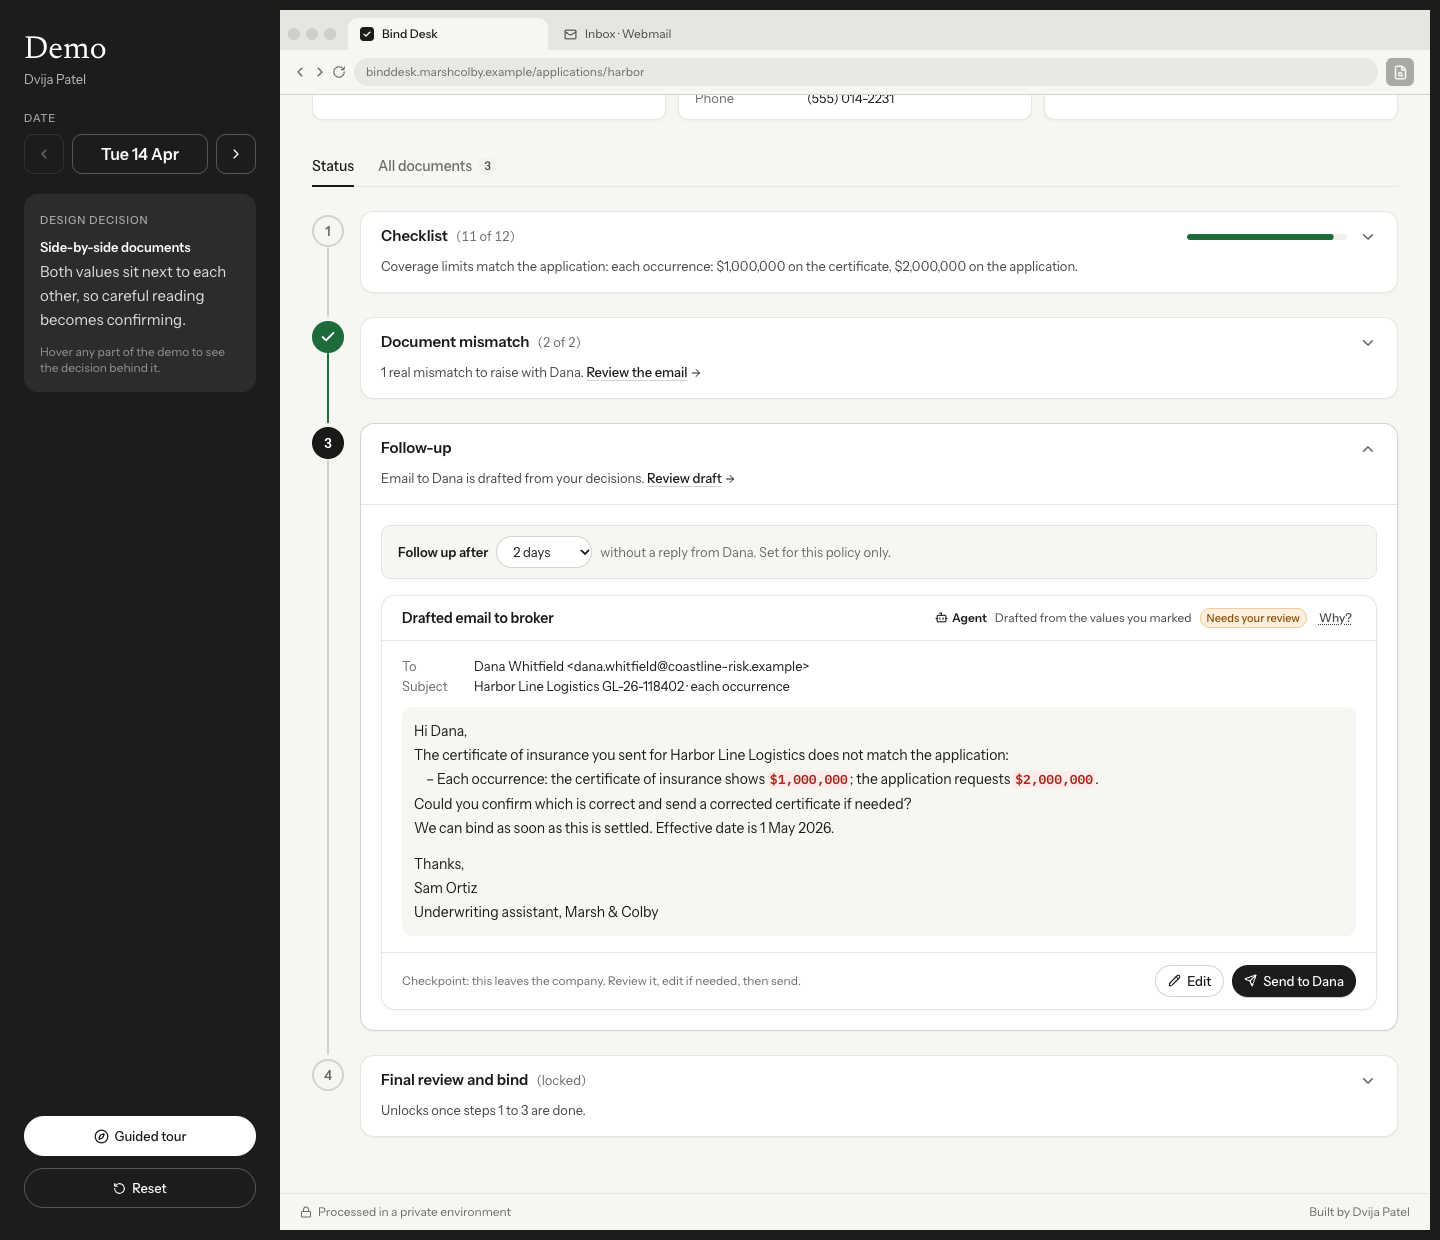
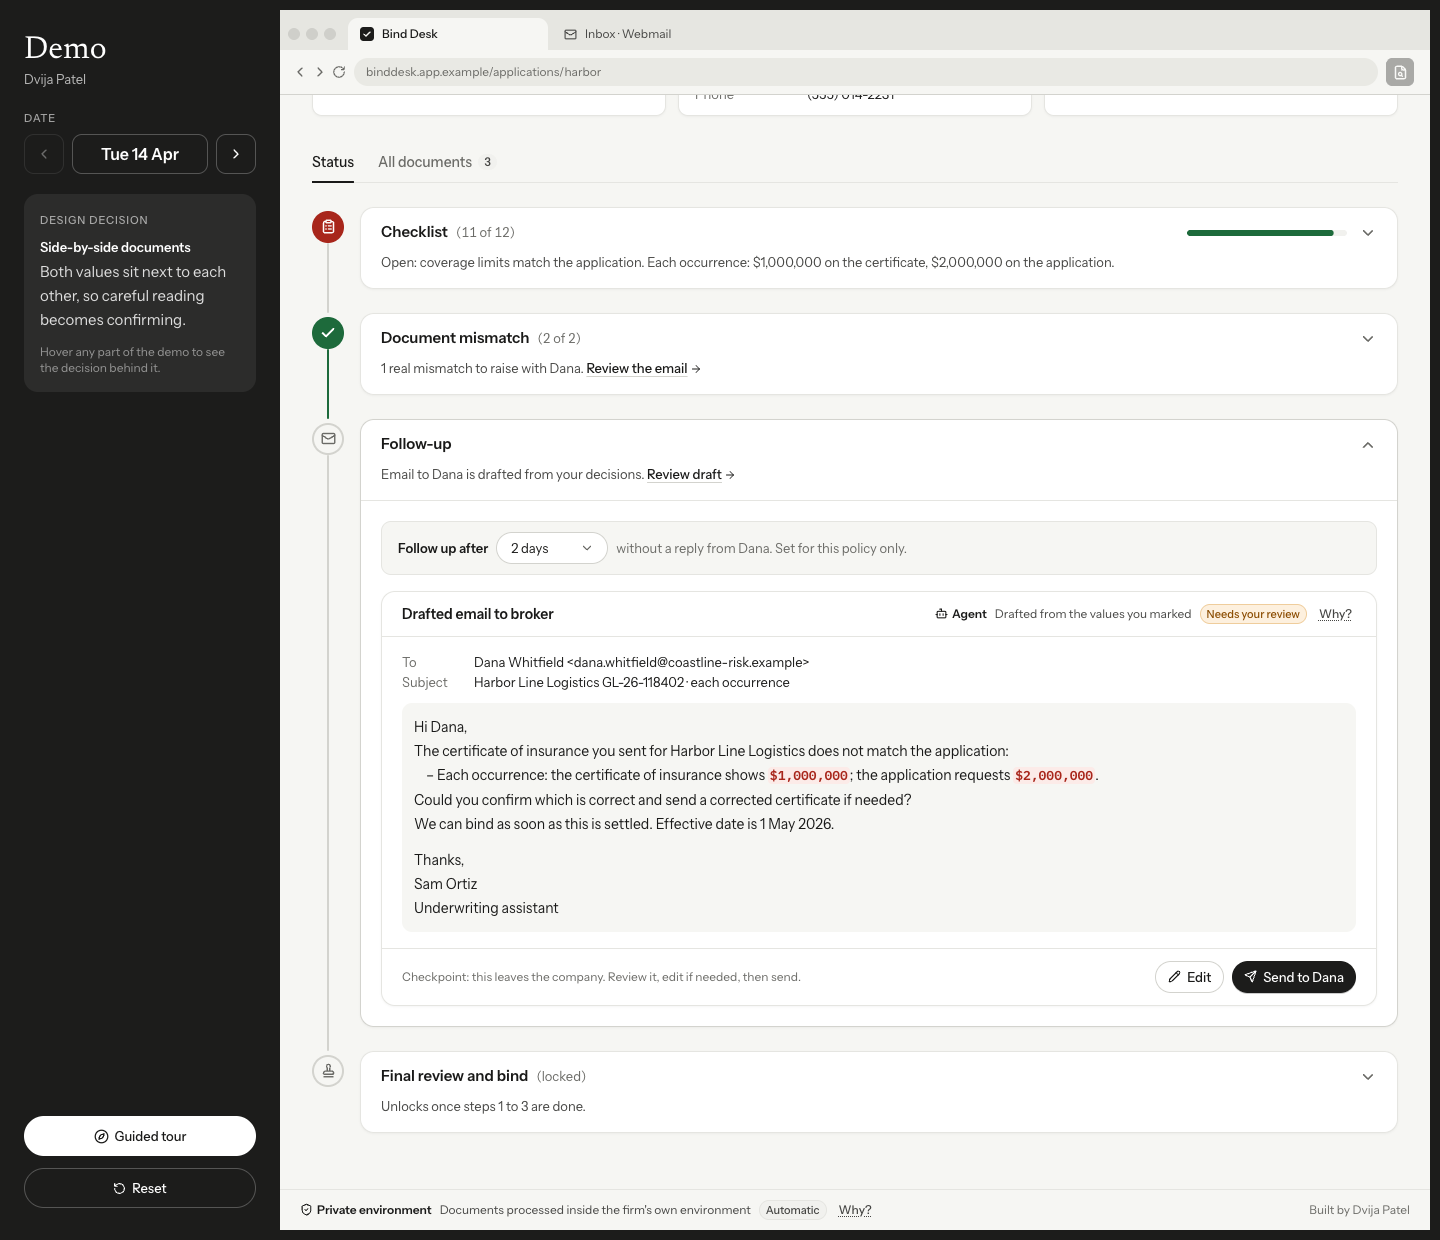
Sliding decision toggle with resolve and approve-correction flow, shared select, checklist title

diff --git a/src/proto/screens/AppDetail.tsx b/src/proto/screens/AppDetail.tsx
@@ -23,7 +23,7 @@ import { USER } from '../mockData'
 import { Flip, gsap, prefersReduced, useGSAP, useIndicator, withMotion } from '../motion'
 import { StatusBadge } from '../components/StatusBadge'
 import { AiTag } from '../components/AiTag'
-import { Button, Counter, ProtoFooter } from '../components/ui'
+import { Button, Counter, ProtoFooter, Select } from '../components/ui'
 import { DrawnCheck, EmailDraft } from '../components/EmailDraft'
 import { BindDialog } from '../components/BindDialog'
 import { InlineLink } from './Home'
@@ -514,7 +514,7 @@ function ChecklistSection({ sub }: { sub: Submission }) {
       <div data-decision="checklist" className="rounded-card border border-line bg-surface">
         <div className="flex flex-wrap items-center justify-between gap-3 border-b border-line px-5 py-3">
           <div>
-            <h3 className="text-sm font-semibold">Bindwise checklist</h3>
+            <h3 className="text-sm font-semibold">Policy Binding Checklist</h3>
             <p className="text-xs text-ink-3">Every item needed before this policy can bind</p>
           </div>
           <Button variant="secondary" onClick={() => toast(`Upload would attach a document to ${sub.client}. Not part of this prototype.`)}>
@@ -681,7 +681,6 @@ function DocPaper({
 function Compare({ sub }: { sub: Submission }) {
   const { decisions, epoch, focusDiff } = useProto()
   const wide = useWide()
-  const decide = useProto((s) => s.decide)
   const markReady = useProto((s) => s.markReady)
   const setFocusDiff = useProto((s) => s.setFocusDiff)
   const [active, setActive] = useState<string | null>(null)
@@ -813,25 +812,7 @@ function Compare({ sub }: { sub: Submission }) {
                     <dd className="break-words font-mono">{d.right}</dd>
                   </dl>
                   <p className="mt-1.5 text-xs text-ink-3">{d.note}</p>
-                  <div role="radiogroup" aria-label={`${d.field}: your decision`} className="mt-2.5 grid grid-cols-2 rounded-full border border-line-strong bg-muted p-0.5">
-                    {(['real', 'acceptable'] as const).map((opt) => {
-                      const on = v === opt
-                      return (
-                        <button
-                          key={opt}
-                          role="radio"
-                          aria-checked={on}
-                          onClick={() => decide(sub.id, d.id, opt)}
-                          className={`inline-flex h-7 items-center justify-center gap-1 rounded-full px-2 text-xs font-medium transition-colors duration-150 ${
-                            on ? (opt === 'real' ? 'bg-danger text-white shadow-card' : 'bg-surface text-ink shadow-card ring-1 ring-line-strong') : 'text-ink-2 hover:bg-surface/70 hover:text-ink'
-                          }`}
-                        >
-                          {opt === 'real' ? <X aria-hidden size={12} strokeWidth={2.5} /> : <Check aria-hidden size={12} strokeWidth={2.5} />}
-                          {opt === 'real' ? 'Real mismatch' : 'Acceptable'}
-                        </button>
-                      )
-                    })}
-                  </div>
+                  <DiffDecision sub={sub} diff={d} value={v} />
                 </li>
               )
             })}
@@ -900,6 +881,129 @@ export function GenericPage({ title, name, meta }: { title: string; name: string
       </div>
       <p className="border-t border-line px-5 py-2.5 text-xs text-ink-3">Preview of a fictional document.</p>
     </article>
+  )
+}
+
+/* ------------------------------ Difference decision ------------------------------ */
+
+/** Sliding Real mismatch / Acceptable toggle, then Resolved or a correction to approve. */
+function DiffDecision({ sub, diff, value }: { sub: Submission; diff: NonNullable<Submission['diffs']>[number]; value?: Decision }) {
+  const key = decisionKey(sub.id, diff.id)
+  const approved = useProto((s) => s.corrections[key])
+  const decide = useProto((s) => s.decide)
+  const undecide = useProto((s) => s.undecide)
+  const approve = useProto((s) => s.approveCorrection)
+  const [choice, setChoice] = useState<Decision | undefined>(value)
+  const [editing, setEditing] = useState(false)
+  const [text, setText] = useState('')
+  const pill = useRef<HTMLSpanElement>(null)
+  const panel = useRef<HTMLDivElement>(null)
+  const first = useRef(true)
+  useEffect(() => setChoice(value), [value])
+
+  useLayoutEffect(() => {
+    if (!pill.current) return
+    const x = choice === 'acceptable' ? 100 : 0
+    if (first.current || prefersReduced()) gsap.set(pill.current, { xPercent: x, opacity: choice ? 1 : 0 })
+    else gsap.to(pill.current, { xPercent: x, opacity: choice ? 1 : 0, duration: 0.3, ease: 'back.out(1.1)' })
+    first.current = false
+  }, [choice])
+  useLayoutEffect(() => {
+    if (panel.current && !prefersReduced()) gsap.fromTo(panel.current, { opacity: 0, y: -4 }, { opacity: 1, y: 0, duration: 0.25, ease: 'power3.out', delay: 0.08 })
+  }, [choice, editing])
+
+  const pick = (opt: Decision) => {
+    setChoice(opt)
+    setEditing(false)
+    if (opt === 'acceptable') decide(sub.id, diff.id, 'acceptable')
+    else if (value === 'acceptable') undecide(sub.id, diff.id)
+  }
+  const showForm = choice === 'real' && (!approved || value !== 'real' || editing)
+
+  return (
+    <div className="mt-2.5">
+      <div role="radiogroup" aria-label={`${diff.field}: your decision`} className="relative grid grid-cols-2 rounded-full border border-line-strong bg-muted p-0.5">
+        <span
+          ref={pill}
+          aria-hidden
+          className={`pointer-events-none absolute bottom-0.5 left-0.5 top-0.5 w-[calc(50%-2px)] rounded-full shadow-card transition-colors duration-200 ${
+            choice === 'real' ? 'bg-danger' : 'bg-surface ring-1 ring-line-strong'
+          }`}
+        />
+        {(['real', 'acceptable'] as const).map((opt) => {
+          const on = choice === opt
+          return (
+            <button
+              key={opt}
+              role="radio"
+              aria-checked={on}
+              onClick={() => pick(opt)}
+              className={`relative z-10 inline-flex h-7 items-center justify-center gap-1 rounded-full px-2 text-xs font-medium transition-colors duration-200 ${
+                on ? (opt === 'real' ? 'text-white' : 'text-ink') : 'text-ink-2 hover:text-ink'
+              }`}
+            >
+              {opt === 'real' ? <X aria-hidden size={12} strokeWidth={2.5} /> : <Check aria-hidden size={12} strokeWidth={2.5} />}
+              {opt === 'real' ? 'Real mismatch' : 'Acceptable'}
+            </button>
+          )
+        })}
+      </div>
+
+      {choice === 'acceptable' && value === 'acceptable' && (
+        <div ref={panel} className="mt-2.5 flex items-center gap-2 text-sm text-success">
+          <span className="grid h-5 w-5 place-items-center rounded-full bg-success text-white">
+            <Check aria-hidden size={12} strokeWidth={3} />
+          </span>
+          Resolved. The certificate value is accepted.
+        </div>
+      )}
+
+      {showForm && (
+        <div ref={panel} className="mt-2.5">
+          <label htmlFor={`fix-${key}`} className="text-xs font-medium text-ink-2">
+            What is the correct {diff.field.toLowerCase()}?
+          </label>
+          <div className="mt-1.5 flex flex-wrap items-center gap-2">
+            <input
+              id={`fix-${key}`}
+              value={text}
+              onChange={(e) => setText(e.target.value)}
+              placeholder={diff.left}
+              className="h-9 min-w-0 flex-1 rounded-full border border-line-strong bg-surface px-3.5 font-mono text-[13px] placeholder:text-ink-3 hover:border-ink-3 focus:border-ink"
+            />
+            <Button
+              variant="primary"
+              onClick={() => {
+                approve(sub.id, diff.id, text.trim() || diff.left)
+                setEditing(false)
+              }}
+            >
+              Approve
+            </Button>
+          </div>
+          <p className="mt-1 text-xs text-ink-3">Leave it blank to use the application's value, {diff.left}.</p>
+        </div>
+      )}
+
+      {choice === 'real' && value === 'real' && approved && !editing && (
+        <div ref={panel} className="mt-2.5 flex flex-wrap items-center justify-between gap-2 rounded-card bg-danger-bg/60 px-3 py-2 text-sm">
+          <span>
+            <span className="text-ink-2">Correct value </span>
+            <span className="font-mono font-semibold text-ink">{approved}</span>
+            <span className="text-ink-3"> · approved by you, goes in the broker email</span>
+          </span>
+          <button
+            onClick={() => {
+              setText(approved)
+              setEditing(true)
+            }}
+            className="text-xs font-medium underline underline-offset-2 hover:text-ink-2"
+          >
+            Change value
+          </button>
+        </div>
+      )}
+    </div>
   )
 }
 
@@ -1033,7 +1137,7 @@ function CallPanel({ sub, onLog }: { sub: Submission; onLog: () => void }) {
 }
 
 function FollowUpSection({ sub }: { sub: Submission }) {
-  const { day, sent, followChoice, drafts, editing, decisions, suggestions } = useProto()
+  const { day, sent, followChoice, drafts, editing, decisions, suggestions, corrections } = useProto()
   const go = useProto((s) => s.go)
   const chooseFollow = useProto((s) => s.chooseFollow)
   const sendFollowUp = useProto((s) => s.sendFollowUp)
@@ -1061,11 +1165,11 @@ function FollowUpSection({ sub }: { sub: Submission }) {
       <div className="flex flex-wrap items-center justify-between gap-3 rounded-card border border-line bg-canvas px-4 py-2.5">
         <label className="flex flex-wrap items-center gap-2 text-sm">
           <span className="font-semibold">Follow up after</span>
-          <select value={sub.followUpDays} onChange={(e) => setFollowUpDays(sub.id, Number(e.target.value))} className="h-8 rounded-full border border-line-strong bg-surface pl-3 pr-7 text-sm hover:border-ink-3">
+          <Select value={sub.followUpDays} onChange={(e) => setFollowUpDays(sub.id, Number(e.target.value))} wrapClassName="w-[112px]">
             <option value={1}>1 day</option>
             <option value={2}>2 days</option>
             <option value={3}>3 days</option>
-          </select>
+          </Select>
           <span className="text-ink-3">without a reply from {first}. Set for this policy only.</span>
         </label>
         {waiting && <span className="text-sm text-ink-2">{overdue ? 'Due now' : `Next nudge ${fmtDay(nextPrompt(sub))}`}</span>}
@@ -1090,13 +1194,13 @@ function FollowUpSection({ sub }: { sub: Submission }) {
       {mismatchDraft && (
         <div data-decision="email">
           <EmailDraft
-            text={drafts[sub.id] ?? buildRequestDraft(sub, decisions, {})}
+            text={drafts[sub.id] ?? buildRequestDraft(sub, decisions, {}, corrections)}
             editing={editing === sub.id}
             onEdit={(on) => setEditing(on ? sub.id : null)}
             onChange={(t) => setDraft(sub.id, t)}
             onSend={() => sendRequest(sub.id)}
             sendLabel={`Send to ${first}`}
-            evidence={realDiffs.map((d) => `${d.field}: ${d.right} (certificate) vs ${d.left} (application)`)}
+            evidence={realDiffs.map((d) => `${d.field}: ${d.right} (certificate) vs ${d.left} (application)${corrections[decisionKey(sub.id, d.id)] ? `; you approved ${corrections[decisionKey(sub.id, d.id)]}` : ''}`)}
           />
         </div>
       )}

diff --git a/src/proto/store.ts b/src/proto/store.ts
@@ -26,6 +26,8 @@ export interface Data {
   /** which design decision the left panel shows while hovering */
   hoverDecision: string | null
   decisions: Record<string, Decision>
+  /** correct value the user approved for a real mismatch, keyed sub:diff */
+  corrections: Record<string, string>
   suggestions: Record<string, 'accepted' | 'dismissed'>
   drafts: Record<string, string>
   editing: string | null
@@ -46,6 +48,8 @@ interface Toast { id: number; text: string }
 interface Actions {
   go: (s: Screen) => void
   decide: (subId: string, diffId: string, d: Decision) => void
+  undecide: (subId: string, diffId: string) => void
+  approveCorrection: (subId: string, diffId: string, value: string) => void
   suggest: (subId: string, itemId: string, v: 'accepted' | 'dismissed') => void
   setDraft: (subId: string, text: string) => void
   setEditing: (subId: string | null) => void
@@ -103,6 +107,7 @@ export function seed(): Data {
     focusDiff: {},
     hoverDecision: null,
     decisions: {},
+    corrections: {},
     suggestions: {},
     drafts: {},
     editing: null,
@@ -137,7 +142,7 @@ const tDecide = (subId: string, diffId: string, v: Decision): T => (d) => {
 
 const tSendRequest = (subId: string): T => (d) => {
   const s = sub(d, subId)
-  const text = d.drafts[subId] ?? buildRequestDraft(s, d.decisions, d.suggestions)
+  const text = d.drafts[subId] ?? buildRequestDraft(s, d.decisions, d.suggestions, d.corrections)
   let askedFor = 'the loss runs (5 years)'
   let reason = 'Asked broker for loss runs (5 years)'
   if (s.status === 'mismatch') {
@@ -273,6 +278,14 @@ export const useProto = create<ProtoState>((set, get) => {
 
     go: (screen) => apply(go(screen)),
     decide: (subId, diffId, v) => apply(tDecide(subId, diffId, v)),
+    undecide: (subId, diffId) =>
+      apply((d) => {
+        const decisions = { ...d.decisions }
+        delete decisions[decisionKey(subId, diffId)]
+        return { ...d, decisions }
+      }),
+    approveCorrection: (subId, diffId, value) =>
+      apply((d) => ({ ...tDecide(subId, diffId, 'real')(d), corrections: { ...d.corrections, [decisionKey(subId, diffId)]: value } })),
     suggest: (subId, itemId, v) =>
       apply((d) => {
         const drafts = { ...d.drafts }

diff --git a/src/proto/logic.ts b/src/proto/logic.ts
@@ -52,7 +52,7 @@ export function inRange(day: number | undefined, range: [number, number]) {
 
 export const decisionKey = (subId: string, diffId: string) => `${subId}:${diffId}`
 
-export function buildRequestDraft(sub: Submission, decisions: Record<string, Decision>, accepted: Record<string, string>) {
+export function buildRequestDraft(sub: Submission, decisions: Record<string, Decision>, accepted: Record<string, string>, corrections: Record<string, string> = {}) {
   const first = sub.broker.name.split(' ')[0]
   if (sub.status === 'missing') {
     const context = sub.checklist
@@ -76,7 +76,11 @@ export function buildRequestDraft(sub: Submission, decisions: Record<string, Dec
   }
   const real = (sub.diffs ?? []).filter((d) => decisions[decisionKey(sub.id, d.id)] === 'real')
   const lines = real.map(
-    (d) => `– ${d.field}: the ${sub.counterDoc?.kind.toLowerCase()} shows ${d.right}; the application requests ${d.left}.`,
+    (d) => {
+      const fix = corrections[decisionKey(sub.id, d.id)]
+      if (!fix) return `– ${d.field}: the ${sub.counterDoc?.kind.toLowerCase()} shows ${d.right}; the application requests ${d.left}.`
+      return `– ${d.field}: the ${sub.counterDoc?.kind.toLowerCase()} shows ${d.right}; it should be ${fix}${fix === d.left ? ', as on the application' : ''}.`
+    },
   )
   return [
     `To: ${sub.broker.name} <${sub.broker.email}>`,
@@ -85,7 +89,7 @@ export function buildRequestDraft(sub: Submission, decisions: Record<string, Dec
     `Hi ${first},`,
     `The ${sub.counterDoc?.kind.toLowerCase()} you sent for ${sub.client} does not match the application:`,
     ...lines,
-    `Could you confirm which is correct and send a corrected certificate if needed?`,
+    real.every((d) => corrections[decisionKey(sub.id, d.id)]) ? `Could you send a corrected certificate with ${real.length > 1 ? 'these values' : 'this value'}?` : `Could you confirm which is correct and send a corrected certificate if needed?`,
     `We can bind as soon as this is settled. Effective date is ${sub.effective}.`,
     ``,
     `Thanks,`,

diff --git a/src/proto/screens/Applications.tsx b/src/proto/screens/Applications.tsx
@@ -150,13 +150,13 @@ export function Applications({ week = false }: { week?: boolean }) {
             <select
               value={range}
               onChange={(e) => setRange(e.target.value as RangeId)}
-              className="h-full cursor-pointer appearance-none bg-transparent pl-2 pr-8 font-medium text-ink outline-none"
+              className="h-full cursor-pointer appearance-none bg-transparent pl-2 pr-9 font-medium text-ink outline-none"
             >
               <option value="this">This week · 13 – 17 Apr</option>
               <option value="last">Last week · 6 – 10 Apr</option>
               <option value="30">Last 30 days · to {fmtDay(day)}</option>
             </select>
-            <ChevronDown aria-hidden size={14} className="pointer-events-none absolute right-3 text-ink-3" />
+            <ChevronDown aria-hidden size={14} className="pointer-events-none absolute right-3.5 text-ink-3" />
           </label>
         )}
       </header>
@@ -221,12 +221,12 @@ export function Applications({ week = false }: { week?: boolean }) {
             <select
               value={homeSort}
               onChange={(e) => setSort(e.target.value as 'oldest' | 'newest')}
-              className="h-full cursor-pointer appearance-none bg-transparent pl-2 pr-8 font-medium text-ink outline-none"
+              className="h-full cursor-pointer appearance-none bg-transparent pl-2 pr-9 font-medium text-ink outline-none"
             >
               <option value="oldest">Oldest first</option>
               <option value="newest">Newest first</option>
             </select>
-            <ChevronDown aria-hidden size={14} className="pointer-events-none absolute right-3 text-ink-3" />
+            <ChevronDown aria-hidden size={14} className="pointer-events-none absolute right-3.5 text-ink-3" />
           </label>
         )}
       </div>

diff --git a/src/proto/screens/Capture.tsx b/src/proto/screens/Capture.tsx
@@ -4,7 +4,7 @@ import { useProto } from '../store'
 import { INBOX } from '../mockData'
 import { gsap, prefersReduced, useGSAP, withMotion } from '../motion'
 import { AiTag } from '../components/AiTag'
-import { Button, ProtoFooter } from '../components/ui'
+import { Button, ProtoFooter, Select } from '../components/ui'
 import { DocPreview, GenericPage } from './AppDetail'
 import type { CaptureDoc } from '../types'
 
@@ -323,12 +323,7 @@ function DocRow({
                 <label className="sr-only" htmlFor={`app-${doc.id}`}>
                   Application for {doc.file}
                 </label>
-                <select
-                  id={`app-${doc.id}`}
-                  value={choice}
-                  onChange={(e) => setChoice(e.target.value)}
-                  className="h-8 min-w-0 flex-1 rounded-full border border-line-strong bg-surface pl-3 pr-7 text-sm hover:border-ink-3"
-                >
+                <Select id={`app-${doc.id}`} value={choice} onChange={(e) => setChoice(e.target.value)} wrapClassName="min-w-0 flex-1">
                   {subs
                     .filter((s) => s.status !== 'bound')
                     .map((s) => (
@@ -337,7 +332,7 @@ function DocRow({
                         {doc.candidates?.includes(s.id) ? ' (suggested)' : ''}
                       </option>
                     ))}
-                </select>
+                </Select>
                 <Button
                   variant="primary"
                   onClick={() => {

diff --git a/src/proto/components/ui.tsx b/src/proto/components/ui.tsx
@@ -1,4 +1,4 @@
-import { forwardRef, useEffect, useLayoutEffect, useRef, useState, type ButtonHTMLAttributes, type ReactNode } from 'react'
+import { forwardRef, type SelectHTMLAttributes, useEffect, useLayoutEffect, useRef, useState, type ButtonHTMLAttributes, type ReactNode } from 'react'
 import { ChevronDown } from 'lucide-react'
 import { AiTag } from './AiTag'
 import { tweenNumber } from '../motion'
@@ -142,4 +142,19 @@ export function useFocusTrap(active: boolean, onEscape?: () => void) {
 
 export function Kbd({ children }: { children: ReactNode }) {
   return <kbd className="rounded border border-line-strong bg-surface px-1 font-mono text-[11px] text-ink-2">{children}</kbd>
+}
+
+/** Pill select with its own chevron, inset from the edge. */
+export function Select({ className = '', wrapClassName = '', children, ...rest }: SelectHTMLAttributes<HTMLSelectElement> & { wrapClassName?: string }) {
+  return (
+    <span className={`relative inline-flex ${wrapClassName}`}>
+      <select
+        {...rest}
+        className={`h-8 w-full cursor-pointer appearance-none truncate rounded-full border border-line-strong bg-surface pl-3.5 pr-9 text-sm text-ink transition-colors hover:border-ink-3 focus:border-ink ${className}`}
+      >
+        {children}
+      </select>
+      <ChevronDown aria-hidden size={14} className="pointer-events-none absolute right-3.5 top-1/2 -translate-y-1/2 text-ink-3" />
+    </span>
+  )
 }
